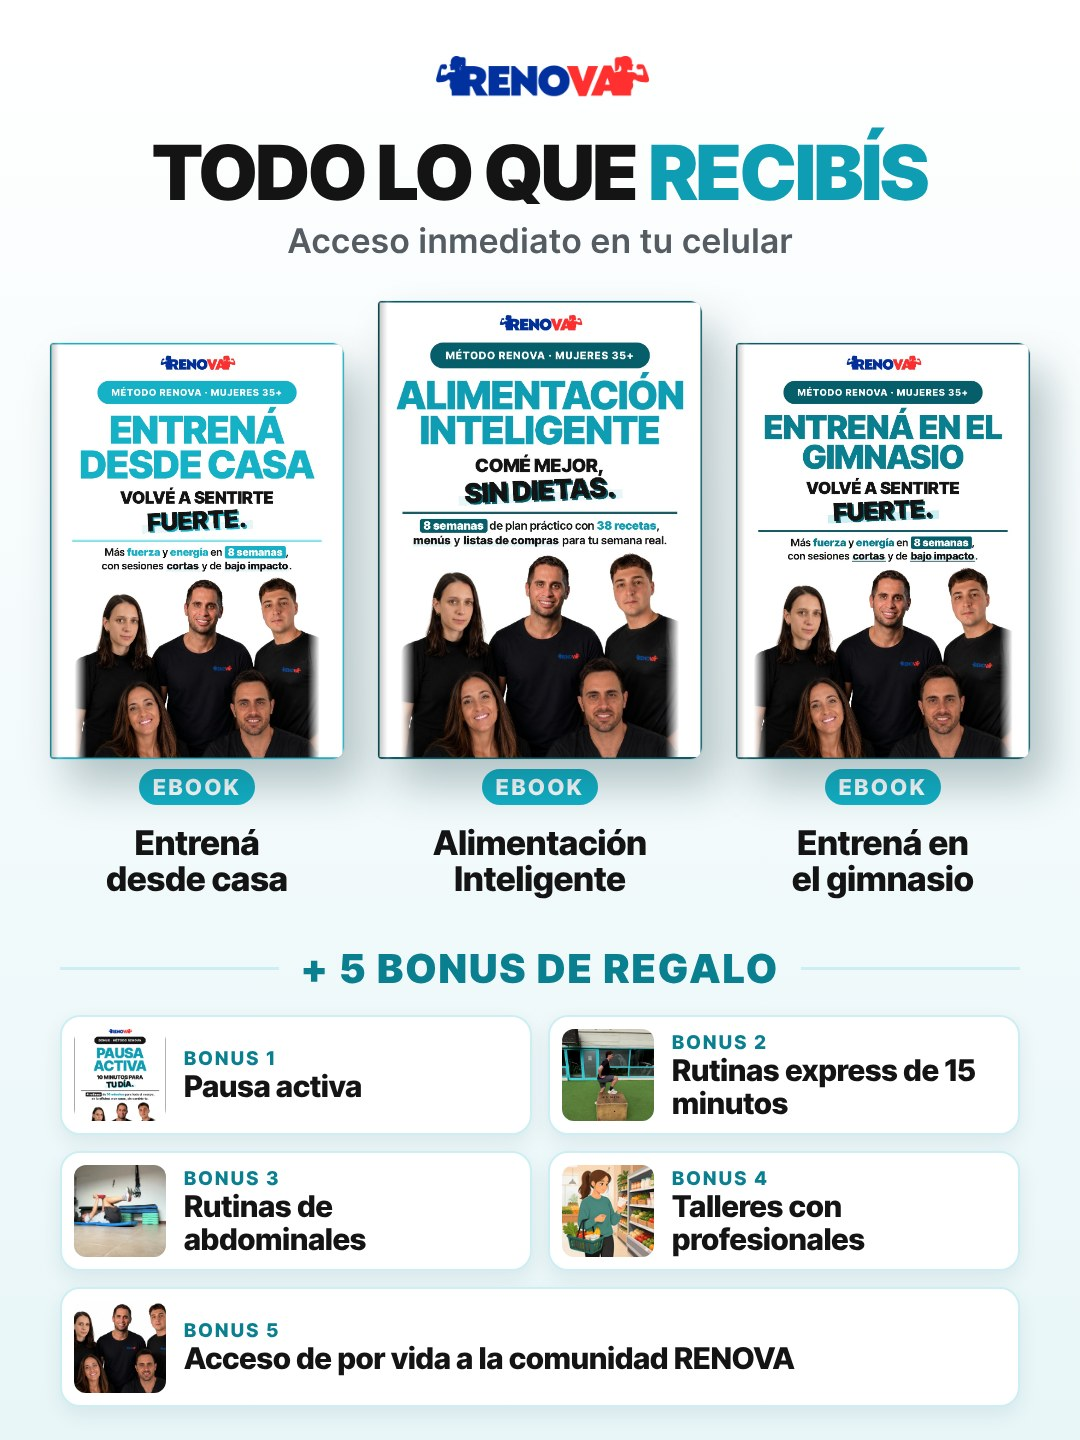
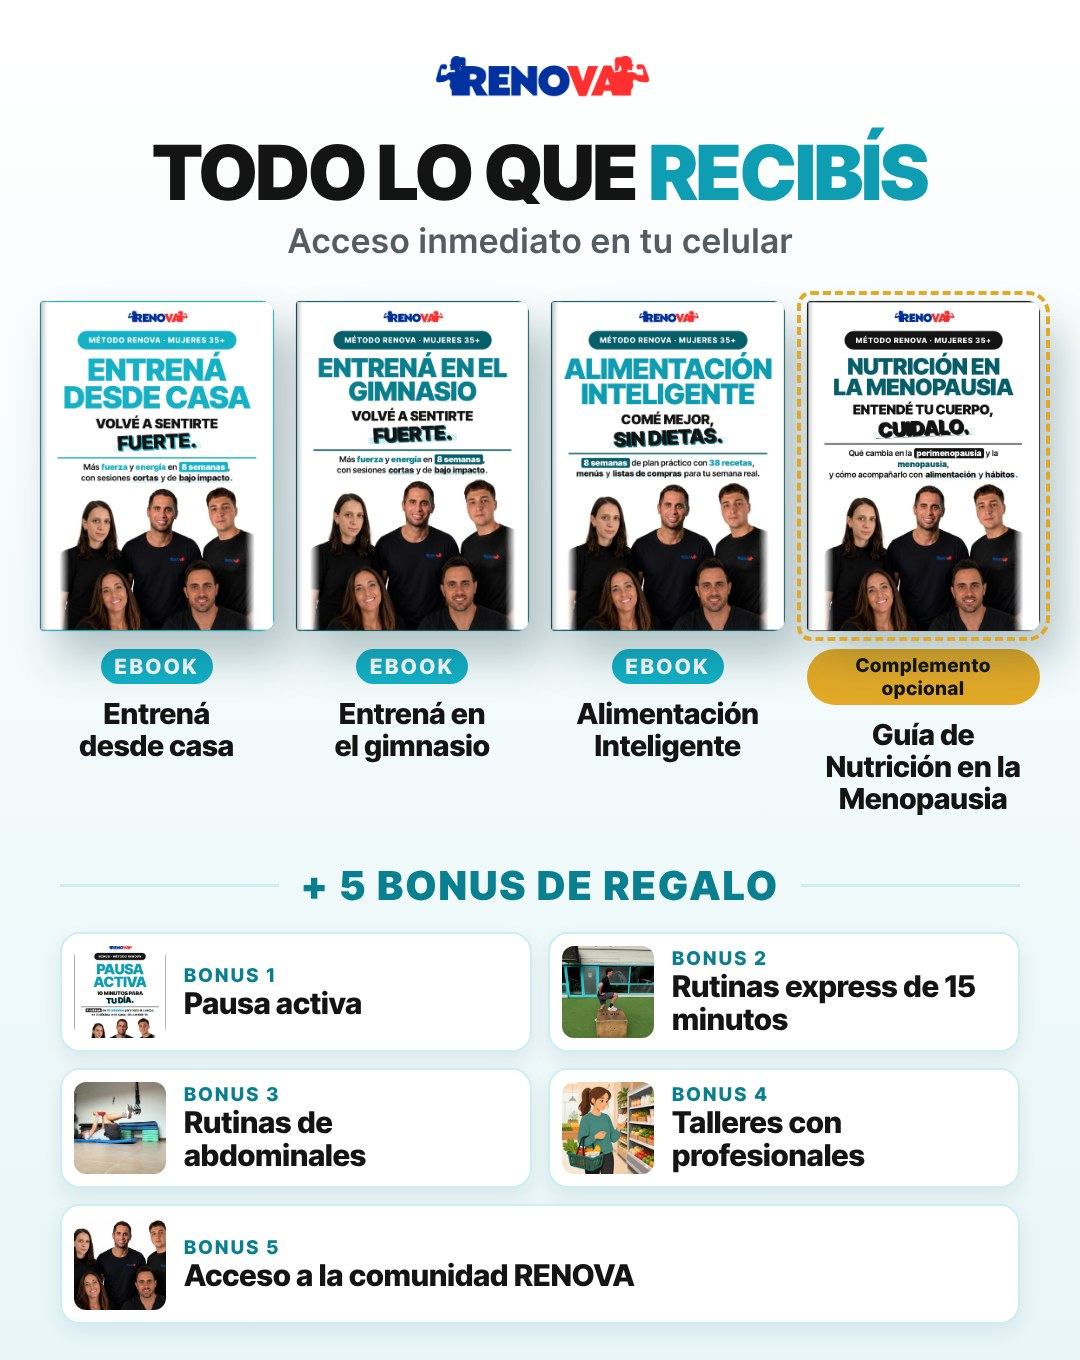
Pack del checkout: suma la guía de menopausia como complemento opcional y saca 'de por vida'
Claude-Session: https://claude.ai/code/session_016d9STMTFsB819XAn27rxwK

diff --git a/fuentes/landing/mockups/pack_checkout.html b/fuentes/landing/mockups/pack_checkout.html
@@ -93,22 +93,23 @@
 }
 
 *{box-sizing:border-box;margin:0;padding:0}
-body{width:1080px;height:1440px;overflow:hidden;font-family:InterW,sans-serif;color:var(--rnv-tinta);
+body{width:1080px;height:1360px;overflow:hidden;font-family:InterW,sans-serif;color:var(--rnv-tinta);
  background:linear-gradient(180deg,#fff 0%,var(--rnv-turquesa-fondo) 100%)}
 .top{text-align:center;padding-top:56px}
 .top img{height:52px}
 h1{font:900 76px/1 InterTightW,sans-serif;letter-spacing:-.02em;text-transform:uppercase;margin-top:22px}
 h1 b{color:var(--rnv-turquesa-titulo)}
 .sub{font:600 34px InterW,sans-serif;color:var(--rnv-gris);margin-top:10px}
-.libros{display:flex;justify-content:center;align-items:flex-end;gap:34px;margin-top:40px;padding:0 50px}
-.lib{text-align:center;width:300px}
-.lib.c{width:330px}
+.libros{display:flex;justify-content:center;align-items:flex-start;gap:22px;margin-top:40px;padding:0 40px}
+.lib{text-align:center;flex:1;min-width:0}
 .tapa{border-radius:4px 12px 12px 4px;overflow:hidden;background:#fff;aspect-ratio:210/297;position:relative;
  box-shadow:18px 26px 44px rgba(6,52,59,.28),0 0 0 1px rgba(0,0,0,.05)}
 .tapa img{width:100%;height:100%;object-fit:cover;display:block}
 .tapa::after{content:"";position:absolute;inset:0 auto 0 0;width:5%;background:linear-gradient(90deg,rgba(0,0,0,.25),rgba(255,255,255,.15) 60%,transparent)}
-.lib b{display:block;font:800 34px/1.08 InterTightW,sans-serif;margin-top:20px}
-.lib span{display:inline-block;margin-top:10px;font:800 22px InterTightW,sans-serif;letter-spacing:.12em;color:#fff;
+.lib b{display:block;font:800 29px/1.1 InterTightW,sans-serif;margin-top:14px}
+.lib.op span{background:var(--rnv-oro);color:var(--rnv-tinta);letter-spacing:.04em;font-size:19px}
+.lib.op .tapa{outline:4px dashed var(--rnv-oro);outline-offset:6px}
+.lib span{display:inline-block;margin-top:18px;font:800 21px InterTightW,sans-serif;letter-spacing:.12em;color:#fff;
  background:var(--rnv-turquesa);padding:5px 14px;border-radius:999px}
 .bh{display:flex;align-items:center;gap:22px;margin:46px 60px 22px}
 .bh i{flex:1;height:3px;background:var(--rnv-turquesa-borde)}
@@ -122,6 +123,6 @@ h1 b{color:var(--rnv-turquesa-titulo)}
 .bo:last-child{grid-column:1/-1}
 </style>
 <div class="top"><img src="../img/logo.png"><h1>Todo lo que <b>recibís</b></h1><p class="sub">Acceso inmediato en tu celular</p></div>
-<div class="libros"><div class="lib"><div class="tapa"><img src="pack/tapa_casa.jpg"></div><span>EBOOK</span><b>Entrená<br>desde casa</b></div><div class="lib c"><div class="tapa"><img src="pack/tapa_nutri.jpg"></div><span>EBOOK</span><b>Alimentación<br>Inteligente</b></div><div class="lib"><div class="tapa"><img src="pack/tapa_gym.jpg"></div><span>EBOOK</span><b>Entrená en<br>el gimnasio</b></div></div>
+<div class="libros"><div class="lib"><div class="tapa"><img src="pack/tapa_casa.jpg"></div><span>EBOOK</span><b>Entrená<br>desde casa</b></div><div class="lib"><div class="tapa"><img src="pack/tapa_gym.jpg"></div><span>EBOOK</span><b>Entrená en<br>el gimnasio</b></div><div class="lib"><div class="tapa"><img src="pack/tapa_nutri.jpg"></div><span>EBOOK</span><b>Alimentación<br>Inteligente</b></div><div class="lib op"><div class="tapa"><img src="../img/tapa_menopausia.jpg"></div><span>Complemento opcional</span><b>Guía de Nutrición en la Menopausia</b></div></div>
 <div class="bh"><i></i><b>+ 5 bonus de regalo</b><i></i></div>
-<div class="bon"><div class="bo"><img src="pack/tapa_pausa.jpg" style="object-position:50% 12%"><div><i>BONUS 1</i><b>Pausa activa</b></div></div><div class="bo"><img src="../img/foto_subidas.jpg" style=""><div><i>BONUS 2</i><b>Rutinas express de 15 minutos</b></div></div><div class="bo"><img src="../img/foto_abdominales.jpg" style=""><div><i>BONUS 3</i><b>Rutinas de abdominales</b></div></div><div class="bo"><img src="../img/taller_super.jpg" style=""><div><i>BONUS 4</i><b>Talleres con profesionales</b></div></div><div class="bo"><img src="../img/comunidad.jpg" style=""><div><i>BONUS 5</i><b>Acceso de por vida a la comunidad RENOVA</b></div></div></div>
+<div class="bon"><div class="bo"><img src="pack/tapa_pausa.jpg" style="object-position:50% 12%"><div><i>BONUS 1</i><b>Pausa activa</b></div></div><div class="bo"><img src="../img/foto_subidas.jpg" style=""><div><i>BONUS 2</i><b>Rutinas express de 15 minutos</b></div></div><div class="bo"><img src="../img/foto_abdominales.jpg" style=""><div><i>BONUS 3</i><b>Rutinas de abdominales</b></div></div><div class="bo"><img src="../img/taller_super.jpg" style=""><div><i>BONUS 4</i><b>Talleres con profesionales</b></div></div><div class="bo"><img src="../img/comunidad.jpg" style=""><div><i>BONUS 5</i><b>Acceso a la comunidad RENOVA</b></div></div></div>

diff --git a/fuentes/landing/mockups/pack_checkout.js b/fuentes/landing/mockups/pack_checkout.js
@@ -2,7 +2,7 @@
 const { chromium } = require('playwright');
 (async () => {
   const b = await chromium.launch();
-  const p = await b.newPage({ viewport: { width: 1080, height: 1440 } });
+  const p = await b.newPage({ viewport: { width: 1080, height: 1360 } });
   await p.goto('file://' + __dirname + '/pack_checkout.html'); await p.waitForTimeout(800);
   console.log('alto', await p.evaluate(() => document.body.scrollHeight));
   await p.screenshot({ path: __dirname + '/../../../pack-renova/pack_checkout.png' });

diff --git a/fuentes/landing/mockups/pack_checkout.py b/fuentes/landing/mockups/pack_checkout.py
@@ -1,4 +1,4 @@
-"""Imagen del pack para el checkout de Impultienda (va arriba del botón de compra), 1080x1440.
+"""Imagen del pack para el checkout de Impultienda (va arriba del botón de compra), 1080x1360.
 Fondo claro como el checkout, tapas reales y los 5 bonus con los nombres de la landing.
 Uso: cd fuentes/landing/mockups && python3 pack_checkout.py && node pack_checkout.js  →  ../../../pack-renova/pack_checkout.png"""
 import sys
@@ -7,32 +7,34 @@ sys.path.insert(0, str(Path(__file__).resolve().parents[2] / "design-system"))
 from design_system import css
 
 I, P = "../img/", "pack/"
-LIBROS = [("tapa_casa.jpg", "Entrená<br>desde casa"), ("tapa_nutri.jpg", "Alimentación<br>Inteligente"),
-          ("tapa_gym.jpg", "Entrená en<br>el gimnasio")]
+LIBROS = [(P + "tapa_casa.jpg", "Entrená<br>desde casa", ""), (P + "tapa_gym.jpg", "Entrená en<br>el gimnasio", ""),
+          (P + "tapa_nutri.jpg", "Alimentación<br>Inteligente", ""),
+          (I + "tapa_menopausia.jpg", "Guía de Nutrición en la Menopausia", "Complemento opcional")]
 BONUS = [(P + "tapa_pausa.jpg", "Pausa activa", "object-position:50% 12%"),
          (I + "foto_subidas.jpg", "Rutinas express de 15 minutos", ""),
          (I + "foto_abdominales.jpg", "Rutinas de abdominales", ""),
          (I + "taller_super.jpg", "Talleres con profesionales", ""),
-         (I + "comunidad.jpg", "Acceso de por vida a la comunidad RENOVA", "")]
+         (I + "comunidad.jpg", "Acceso a la comunidad RENOVA", "")]
 
 CSS = css(str(Path(__file__).parent)) + """
 *{box-sizing:border-box;margin:0;padding:0}
-body{width:1080px;height:1440px;overflow:hidden;font-family:InterW,sans-serif;color:var(--rnv-tinta);
+body{width:1080px;height:1360px;overflow:hidden;font-family:InterW,sans-serif;color:var(--rnv-tinta);
  background:linear-gradient(180deg,#fff 0%,var(--rnv-turquesa-fondo) 100%)}
 .top{text-align:center;padding-top:56px}
 .top img{height:52px}
 h1{font:900 76px/1 InterTightW,sans-serif;letter-spacing:-.02em;text-transform:uppercase;margin-top:22px}
 h1 b{color:var(--rnv-turquesa-titulo)}
 .sub{font:600 34px InterW,sans-serif;color:var(--rnv-gris);margin-top:10px}
-.libros{display:flex;justify-content:center;align-items:flex-end;gap:34px;margin-top:40px;padding:0 50px}
-.lib{text-align:center;width:300px}
-.lib.c{width:330px}
+.libros{display:flex;justify-content:center;align-items:flex-start;gap:22px;margin-top:40px;padding:0 40px}
+.lib{text-align:center;flex:1;min-width:0}
 .tapa{border-radius:4px 12px 12px 4px;overflow:hidden;background:#fff;aspect-ratio:210/297;position:relative;
  box-shadow:18px 26px 44px rgba(6,52,59,.28),0 0 0 1px rgba(0,0,0,.05)}
 .tapa img{width:100%;height:100%;object-fit:cover;display:block}
 .tapa::after{content:"";position:absolute;inset:0 auto 0 0;width:5%;background:linear-gradient(90deg,rgba(0,0,0,.25),rgba(255,255,255,.15) 60%,transparent)}
-.lib b{display:block;font:800 34px/1.08 InterTightW,sans-serif;margin-top:20px}
-.lib span{display:inline-block;margin-top:10px;font:800 22px InterTightW,sans-serif;letter-spacing:.12em;color:#fff;
+.lib b{display:block;font:800 29px/1.1 InterTightW,sans-serif;margin-top:14px}
+.lib.op span{background:var(--rnv-oro);color:var(--rnv-tinta);letter-spacing:.04em;font-size:19px}
+.lib.op .tapa{outline:4px dashed var(--rnv-oro);outline-offset:6px}
+.lib span{display:inline-block;margin-top:18px;font:800 21px InterTightW,sans-serif;letter-spacing:.12em;color:#fff;
  background:var(--rnv-turquesa);padding:5px 14px;border-radius:999px}
 .bh{display:flex;align-items:center;gap:22px;margin:46px 60px 22px}
 .bh i{flex:1;height:3px;background:var(--rnv-turquesa-borde)}
@@ -47,9 +49,9 @@ h1 b{color:var(--rnv-turquesa-titulo)}
 """
 
 
-def libro(i, f, t):
-    c = " c" if i == 1 else ""
-    return f'<div class="lib{c}"><div class="tapa"><img src="{P}{f}"></div><span>EBOOK</span><b>{t}</b></div>'
+def libro(i, f, t, op):
+    c, tag = (" op", op) if op else ("", "EBOOK")
+    return f'<div class="lib{c}"><div class="tapa"><img src="{f}"></div><span>{tag}</span><b>{t}</b></div>'
 
 
 def bono(i, src, t, pos):
@@ -58,7 +60,7 @@ def bono(i, src, t, pos):
 
 html = f"""<!doctype html><meta charset="utf-8"><style>{CSS}</style>
 <div class="top"><img src="{I}logo.png"><h1>Todo lo que <b>recibís</b></h1><p class="sub">Acceso inmediato en tu celular</p></div>
-<div class="libros">{''.join(libro(i, f, t) for i, (f, t) in enumerate(LIBROS))}</div>
+<div class="libros">{''.join(libro(i, f, t, o) for i, (f, t, o) in enumerate(LIBROS))}</div>
 <div class="bh"><i></i><b>+ 5 bonus de regalo</b><i></i></div>
 <div class="bon">{''.join(bono(i, s, t, p) for i, (s, t, p) in enumerate(BONUS))}</div>"""
 Path(__file__).with_name("pack_checkout.html").write_text(html, encoding="utf-8")
